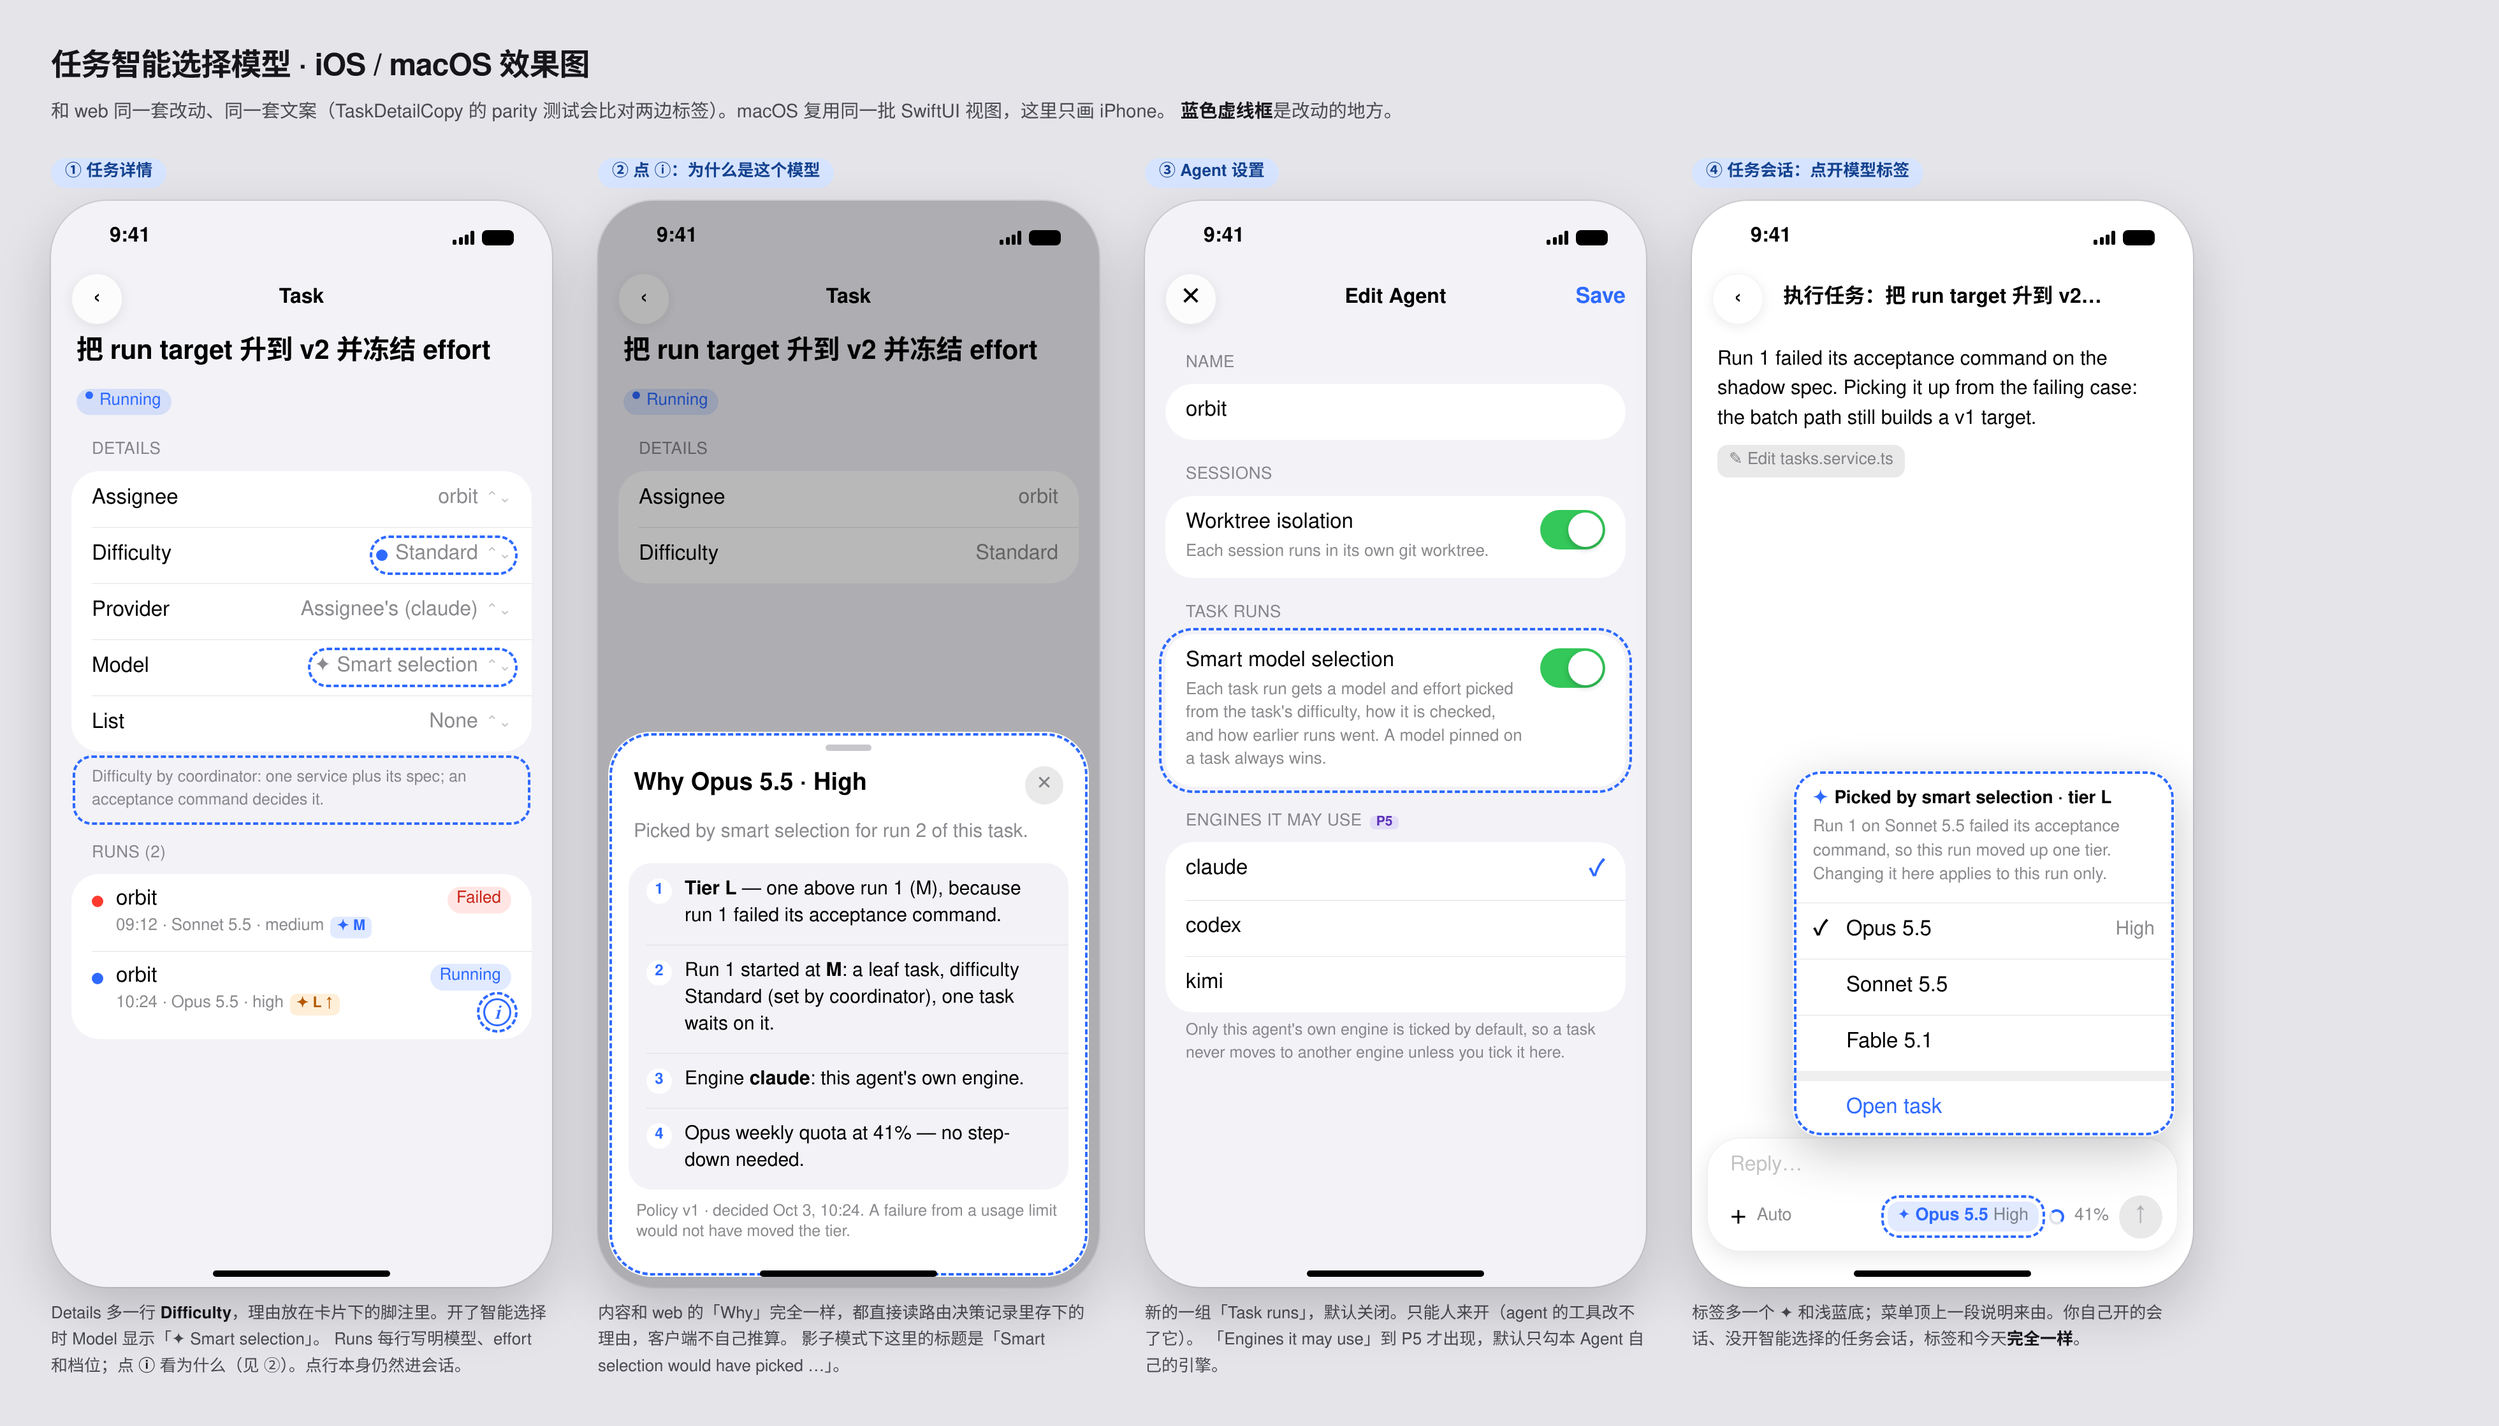
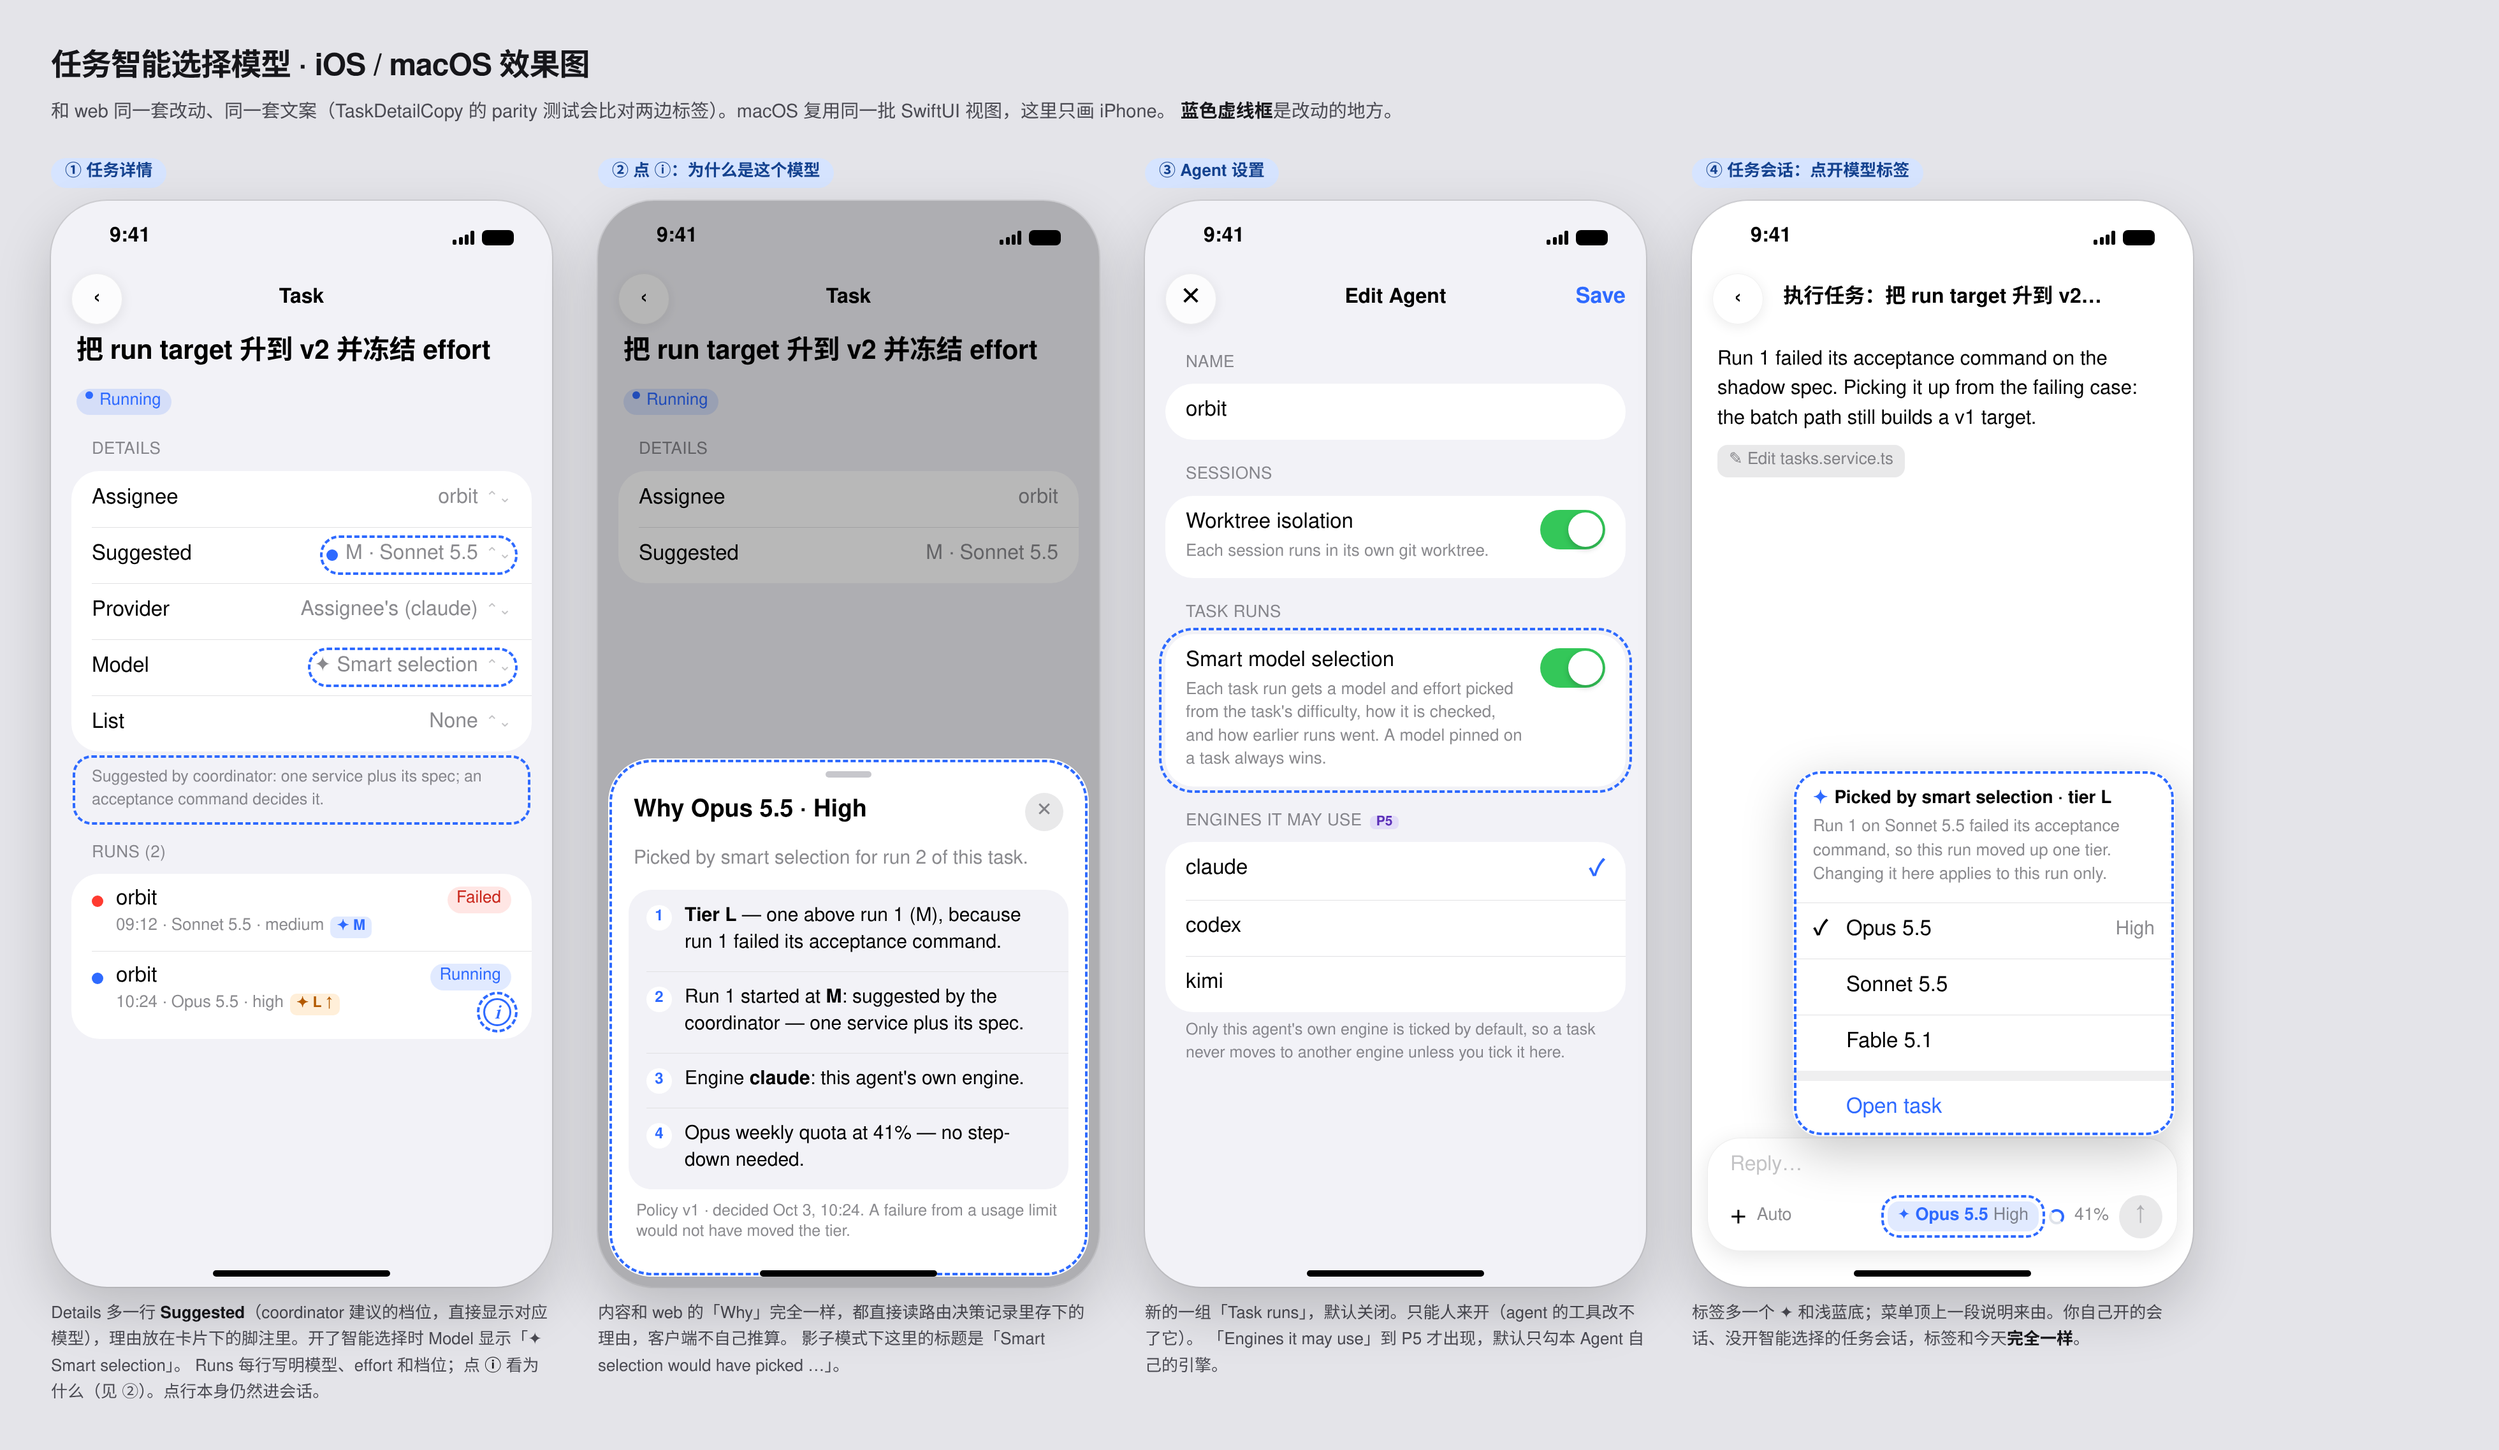
docs: rename mock difficulty field to coordinator-suggested tier
Replace the "Difficulty" field (Trivial/Standard/Hard/Expert) in the model routing mocks with "Suggested", which shows the tier together with its model and effort (e.g. "M · Sonnet 5.5 · medium").

- Rename the field in the iOS and web mocks and update the footnotes and captions
- Describe the stored value as a tier hint from the coordinator (`modelHint` on `task_create`) instead of a difficulty rating
- Dropdown now offers "No suggestion" plus S/M/L/XL, each with its model and effort
- Say that a manually picked model pins and takes priority over the suggestion
- Reword the "why this model" sheet to cite the coordinator's suggestion
- Regenerate the PNG screenshots

diff --git a/docs/mocks/model-routing-web.html b/docs/mocks/model-routing-web.html
@@ -169,7 +169,7 @@
 
 <h1>任务智能选择模型 · web 效果图</h1>
 <p class="lede">
-  改动集中在三个地方：<b>Agent 设置页</b>多一个开关；<b>任务详情</b>多一个「难度」字段、运行列表写明每次用了什么模型以及为什么；
+  改动集中在三个地方：<b>Agent 设置页</b>多一个开关；<b>任务详情</b>多一个「建议档位」字段（coordinator 给的建议）、运行列表写明每次用了什么模型以及为什么；
   <b>任务会话的输入框</b>上，模型标签标出「这是智能选的」。没开启智能选择的 Agent，界面和今天一样（只多一行影子提示）。
   界面文案沿用现在的英文，说明用中文。
 </p>
@@ -242,10 +242,10 @@
 
 <!-- 2 ───────────────────────────────────────────────────────────── -->
 <section>
-  <div class="sechead">2 · 任务详情 · Details：多一个「Difficulty」</div>
+  <div class="sechead">2 · 任务详情 · Details：多一个「Suggested」（coordinator 建议的档位）</div>
   <p class="secsub">
-    难度由 coordinator 建任务时标（<code>task_create</code> 的 <code>difficulty</code> + 理由），人也可以在这里改。
-    Assignee 开了智能选择时，Model 的占位文字从「Provider default」变成「Smart selection」；在这里选定一个模型就是 pin，优先于路由。
+    档位由 coordinator 建任务时给出（<code>task_create</code> 的 <code>modelHint</code> + 理由），人也可以在这里改。
+    Assignee 开了智能选择时，Model 的占位文字从「Provider default」变成「Smart selection」；在这里选定一个模型就是 pin，优先于建议。
   </p>
   <div class="pair trio">
     <figure>
@@ -271,8 +271,8 @@
           <span class="tdp-badge tone-running">Running</span></div>
         <div class="tdp-section-title">Details</div>
         <div class="tdp-field"><span class="tdp-field-label">Assignee</span><span class="sel">orbit</span></div>
-        <div class="tdp-field"><span class="tdp-field-label">Difficulty</span>
-          <div class="fcol chg"><span class="sel"><span class="lvl m"></span>Standard <span class="cv">▾</span></span>
+        <div class="tdp-field"><span class="tdp-field-label">Suggested</span>
+          <div class="fcol chg"><span class="sel"><span class="lvl m"></span>M · Sonnet 5.5 · medium <span class="cv">▾</span></span>
             <span class="fsub">Coordinator: one service plus its spec; an acceptance command decides it</span></div></div>
         <div class="tdp-field"><span class="tdp-field-label">Provider</span>
           <span class="sel ph">Assignee's (claude)</span></div>
@@ -281,28 +281,27 @@
         <div class="tdp-field"><span class="tdp-field-label">List</span><span class="sel ph">No list</span></div>
         <div class="tdp-field"><span class="tdp-field-label">Created by</span><span class="sel">coordinator</span></div>
       </div>
-      <figcaption>难度下面一行灰字是标注人写的理由。Model 的占位文字只在 Assignee 开了智能选择时才变；
-        没开时，难度照样能填，只是不影响模型（影子模式里会记录下来）。</figcaption>
+      <figcaption>档位下面一行灰字是 coordinator 写的理由。Model 的占位文字只在 Assignee 开了智能选择时才变；
+        没开时，建议照样会记下来，只是不影响模型（影子模式里会记录「如果开了会选什么」）。</figcaption>
     </figure>
     <figure>
-      <span class="tag new">点开 Difficulty</span>
+      <span class="tag new">点开 Suggested</span>
       <div class="frame">
         <div class="dd">
-          <div class="o none"><div><div class="on">Not set</div>
-            <div class="od">Judged from the task's shape and wording</div></div></div>
-          <div class="o"><span class="lvl s"></span><div><div class="on">Trivial</div>
+          <div class="o none"><div><div class="on">No suggestion</div>
+            <div class="od">Keeps the agent's model, as today</div></div></div>
+          <div class="o"><span class="lvl s"></span><div><div class="on">S · Sonnet 5.5 · low</div>
             <div class="od">Rename, copy change, version bump, mechanical edits</div></div></div>
-          <div class="o cur"><span class="lvl m"></span><div><div class="on">Standard</div>
+          <div class="o cur"><span class="lvl m"></span><div><div class="on">M · Sonnet 5.5 · medium</div>
             <div class="od">A clear feature or fix with a known shape</div></div></div>
-          <div class="o"><span class="lvl l"></span><div><div class="on">Hard</div>
-            <div class="od">Unknown root cause, concurrency, cross-module, migrations</div></div></div>
-          <div class="o"><span class="lvl xl"></span><div><div class="on">Expert</div>
+          <div class="o"><span class="lvl l"></span><div><div class="on">L · Opus 5.5 · high</div>
+            <div class="od">Unknown root cause, concurrency, cross-module, migrations, the dispatch path</div></div></div>
+          <div class="o"><span class="lvl xl"></span><div><div class="on">XL · Opus 5.5 · max</div>
             <div class="od">Architecture, design, long unattended work</div></div></div>
         </div>
       </div>
-      <figcaption>难度是<b>输入</b>（这活有多难），不是模型名 —— 模型换代时不用改任务。
-        每一档下面一句话说清楚什么样的活算这一档，人和 coordinator 用同一把尺子。
-        「Not set」时按任务的结构和关键词判断。</figcaption>
+      <figcaption>存的是<b>档位</b>，界面直接显示它对应的模型和 effort；模型换代时只改档位表，任务不用动。
+        Codex 任务这里显示的是 Codex 的模型。每一档下面一句话说清楚什么样的活算这一档，人和 coordinator 用同一把尺子。</figcaption>
     </figure>
   </div>
 </section>
@@ -347,7 +346,7 @@
           <div class="wt">Why Opus 5.5 · high</div>
           <ul>
             <li><b>Tier L</b> — one above run 1 (M), because run 1 failed its acceptance command</li>
-            <li>Run 1 started at <b>M</b>: a leaf task, difficulty Standard (set by coordinator), one task waits on it</li>
+            <li>Run 1 started at <b>M</b>: suggested by the coordinator — one service plus its spec</li>
             <li>Engine <b>claude</b>: this agent's own engine</li>
             <li>Opus weekly quota at 41% — no step-down needed</li>
           </ul>

diff --git a/docs/mocks/model-routing-ios.html b/docs/mocks/model-routing-ios.html
@@ -154,12 +154,12 @@
         <div class="sh">Details</div>
         <div class="card">
           <div class="r"><span>Assignee</span><span class="v">orbit <span class="ud">⌃⌄</span></span></div>
-          <div class="r"><span>Difficulty</span><span class="v mk"><span class="lvl m"></span>Standard <span class="ud">⌃⌄</span></span></div>
+          <div class="r"><span>Suggested</span><span class="v mk"><span class="lvl m"></span>M · Sonnet 5.5 <span class="ud">⌃⌄</span></span></div>
           <div class="r"><span>Provider</span><span class="v">Assignee's (claude) <span class="ud">⌃⌄</span></span></div>
           <div class="r"><span>Model</span><span class="v mk">✦ Smart selection <span class="ud">⌃⌄</span></span></div>
           <div class="r"><span>List</span><span class="v">None <span class="ud">⌃⌄</span></span></div>
         </div>
-        <div class="foot mk" style="margin:8px 22px 0;padding:4px 10px">Difficulty by coordinator: one service plus its spec; an acceptance command decides it.</div>
+        <div class="foot mk" style="margin:8px 22px 0;padding:4px 10px">Suggested by coordinator: one service plus its spec; an acceptance command decides it.</div>
         <div class="sh">Runs (2)</div>
         <div class="card">
           <div class="r run"><span class="dt" style="background:var(--red)"></span>
@@ -174,7 +174,7 @@
       </div>
       <div class="home"></div>
     </div>
-    <figcaption>Details 多一行 <b>Difficulty</b>，理由放在卡片下的脚注里。开了智能选择时 Model 显示「✦ Smart selection」。
+    <figcaption>Details 多一行 <b>Suggested</b>（coordinator 建议的档位，直接显示对应模型），理由放在卡片下的脚注里。开了智能选择时 Model 显示「✦ Smart selection」。
       Runs 每行写明模型、effort 和档位；点 <b>ⓘ</b> 看为什么（见 ②）。点行本身仍然进会话。</figcaption>
   </figure>
 
@@ -189,7 +189,7 @@
           <span class="pill run"><span class="dot"></span>Running</span></div>
         <div class="sh">Details</div>
         <div class="card"><div class="r"><span>Assignee</span><span class="v">orbit</span></div>
-          <div class="r"><span>Difficulty</span><span class="v">Standard</span></div></div>
+          <div class="r"><span>Suggested</span><span class="v">M · Sonnet 5.5</span></div></div>
       </div>
       <div class="dim"></div>
       <div class="sheet mk" style="outline-offset:-3px">
@@ -198,7 +198,7 @@
         <div class="lead">Picked by smart selection for run 2 of this task.</div>
         <div class="rs">
           <div class="ri"><span class="n">1</span><span><b>Tier L</b> — one above run 1 (M), because run 1 failed its acceptance command.</span></div>
-          <div class="ri"><span class="n">2</span><span>Run 1 started at <b>M</b>: a leaf task, difficulty Standard (set by coordinator), one task waits on it.</span></div>
+          <div class="ri"><span class="n">2</span><span>Run 1 started at <b>M</b>: suggested by the coordinator — one service plus its spec.</span></div>
           <div class="ri"><span class="n">3</span><span>Engine <b>claude</b>: this agent's own engine.</span></div>
           <div class="ri"><span class="n">4</span><span>Opus weekly quota at 41% — no step-down needed.</span></div>
         </div>
